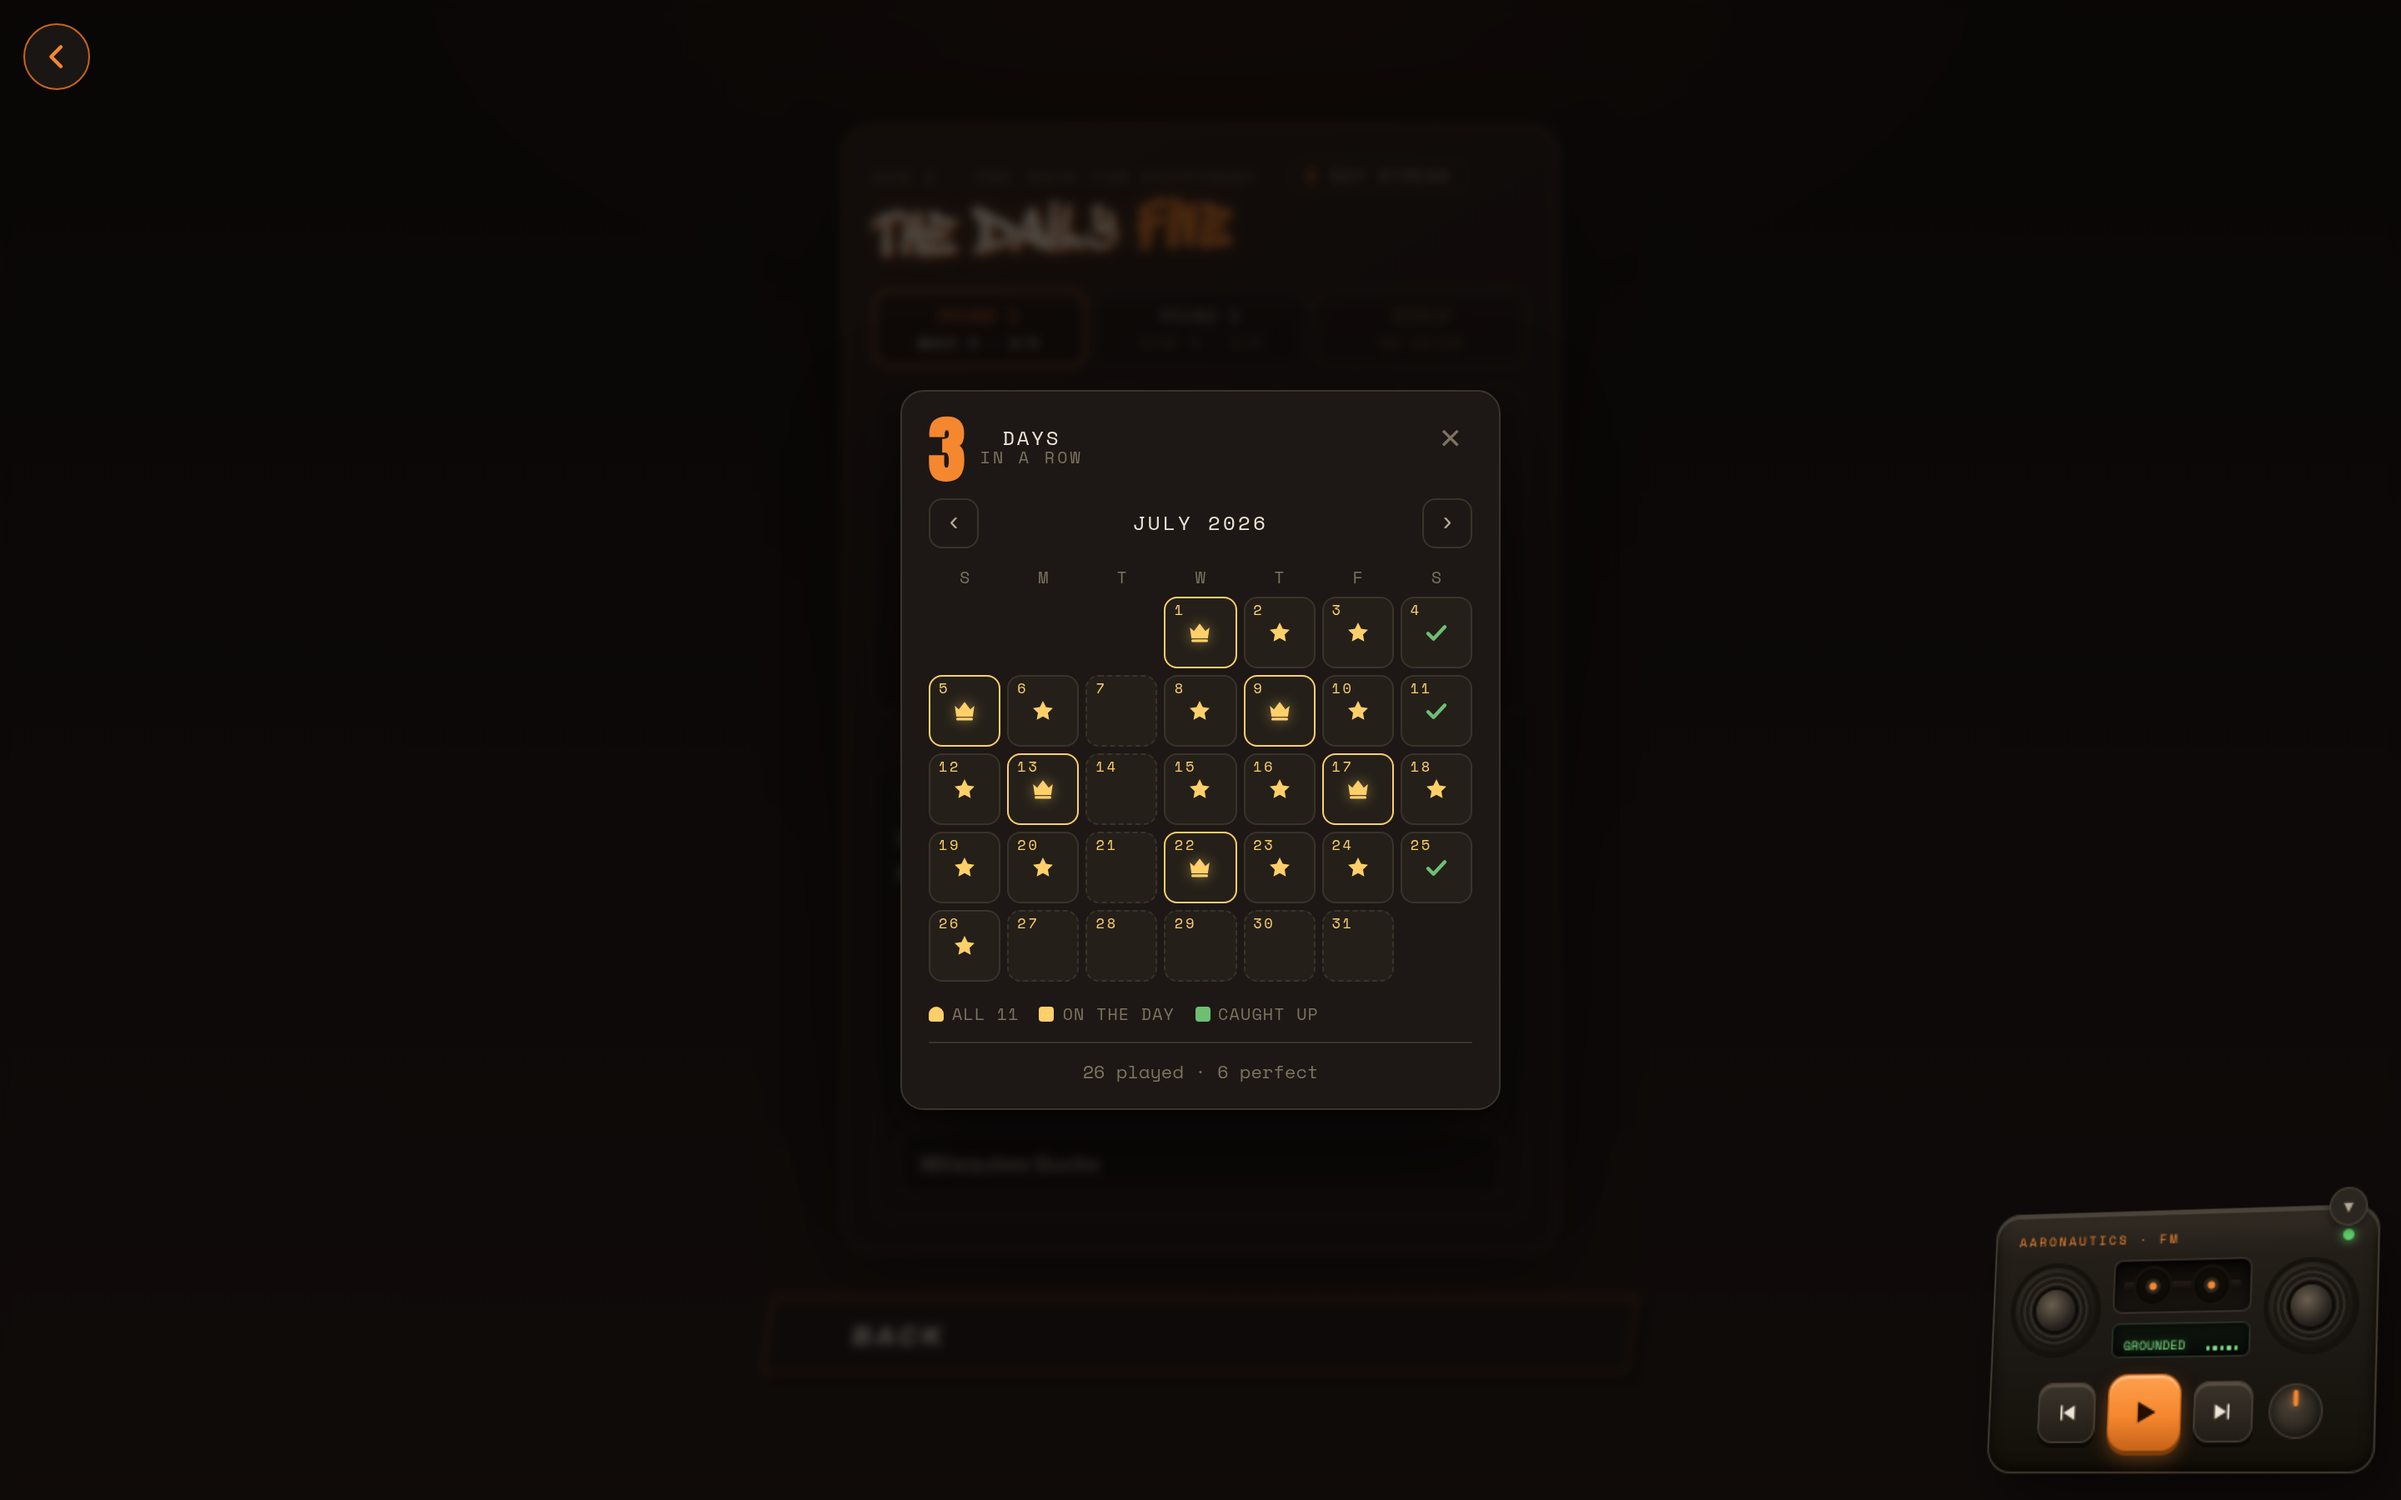
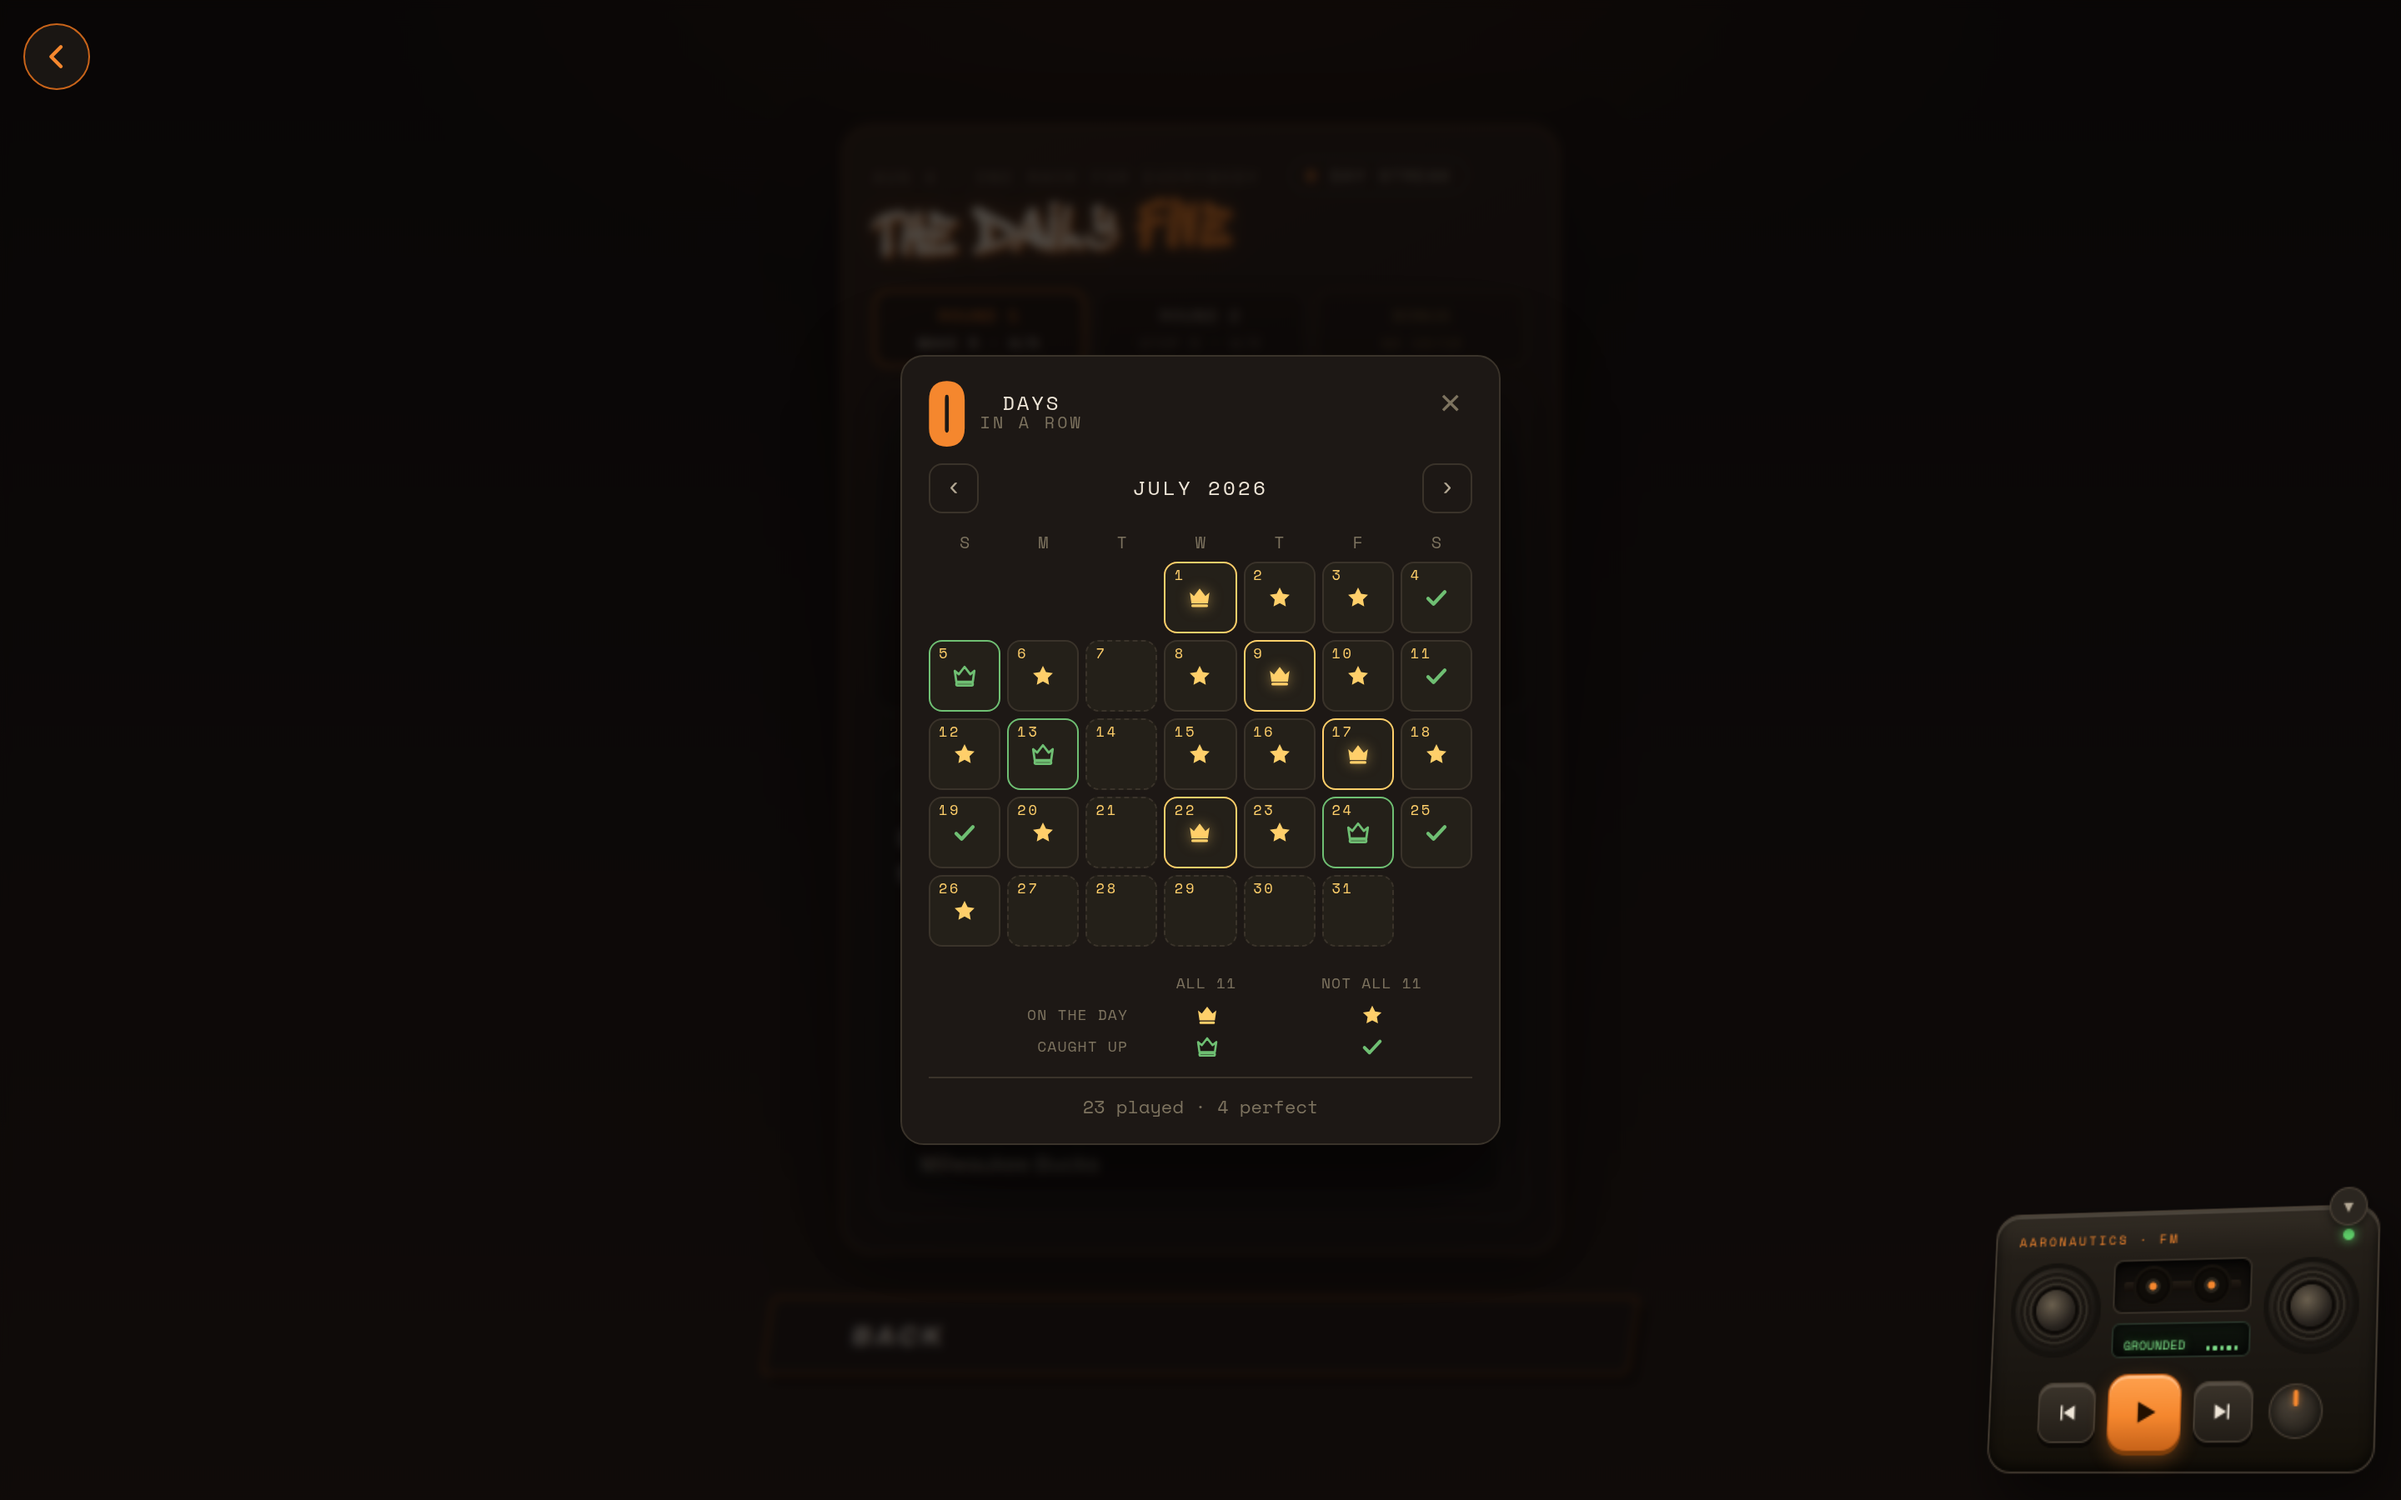
Four marks, not three: a caught-up perfect day is its own thing
Aaron, 08-04: "same day and all 11 has nothing, and resolved another day but all
11 has nothing, and there is no key."

He was right twice. The marks answer TWO questions — did you get all eleven, and
did you do it on the day — which is four cells, and the first cut had three. All
eleven caught up drew the identical gold crown as all eleven on the day, so the
calendar quietly said those were the same achievement. And the key listed "all 11
/ on the day / caught up" as if they were alternatives, which cannot teach a
combination.

                    all eleven          not all eleven
  on the day        gold crown, filled  gold star
  caught up later   green crown, hollow green check

COLOUR SAYS WHEN, SHAPE SAYS WHAT. Gold means you were there on the day, green
means you came back for it; crown means all eleven. Neither channel carries the
whole message on its own, which is the rule this project keeps relearning.

The caught-up crown is the SAME PATH drawn hollow with a heavy 2.2 stroke, not a
second crown — it has to read as the same achievement arriving late. A hairline
outline vanishes at 14px and the cell just reads empty.

The key is now a 2x2 grid that draws itself from _markSvg, so it can never show
a shape the calendar does not use.

Also caught by looking at the screenshot: "4 perfect" with seven crowns on
screen. The total counted only same-day crowns. All eleven is all eleven — the
hollow crown says a day late, not less.
[…]

diff --git a/docs/play/daily.js b/docs/play/daily.js
@@ -349,10 +349,26 @@ function histAdd(res){
      check  played, but caught up later
    Ranked, not exclusive: a made-up day that goes 11/11 still earns the crown,
    because Aaron's rule was "any days where all 11 were completed". */
+/* FOUR STATES, because there are two questions and each has two answers:
+   did you get all eleven, and did you do it on the day?
+
+                       not all eleven        all eleven
+     on the day        gold star             gold crown, filled
+     caught up later   green check           green crown, hollow
+
+   Aaron caught this on 08-04: the first cut collapsed the top-right and
+   bottom-right into one gold crown, so catching up a perfect day looked exactly
+   like nailing it on the day. Two axes, four cells — and the legend has to show
+   all four or the language is only half-taught.
+
+   COLOUR SAYS WHEN, SHAPE SAYS WHAT. Gold means you were there on the day;
+   green means you came back for it. Crown means all eleven; star and check mean
+   you played. That way neither channel has to carry the whole message, which is
+   the rule this project keeps relearning. */
 function markFor(rec){
   if(!rec)return null;
   var swept=rec.s.filter(Boolean).length===5&&rec.t.filter(Boolean).length===5;
-  if(swept&&rec.h>0)return 'crown';
+  if(swept&&rec.h>0)return rec.L?'crownlate':'crown';
   return rec.L?'check':'star';
 }
 
@@ -590,12 +606,27 @@ function mark(kind,size){
     return '<svg class="dvmk st" viewBox="0 0 24 24" width="'+s+'" height="'+s+
       '" aria-hidden="true"><path d="M12 2.4l2.95 5.98 6.6.96-4.775 4.655 1.127 6.573'+
       'L12 17.47l-5.902 3.098 1.127-6.573L2.45 9.34l6.6-.96z" fill="currentColor"/></svg>';
-  /* the crown: three points, a band, and two jewels. Symmetric on purpose —
-     at this size an asymmetric crown just reads as a smudge. */
-  return '<svg class="dvmk cr" viewBox="0 0 24 24" width="'+s+'" height="'+s+
-    '" aria-hidden="true"><path d="M2.6 7.2l3.9 3.3L12 3.4l5.5 7.1 3.9-3.3-1.5 10.4'+
-    'H4.1z" fill="currentColor"/><rect x="4.1" y="18.6" width="15.8" height="2.6" '+
-    'rx="1.1" fill="currentColor"/></svg>';
+  /* the crown: three points and a band. Symmetric on purpose — at this size an
+     asymmetric crown just reads as a smudge.
+
+     TWO CROWNS, ONE OUTLINE. The caught-up crown is the SAME path drawn hollow
+     with a thick stroke instead of a fill, so it is unmistakably the same
+     achievement arriving later rather than a different award. Drawing a second,
+     different crown would have been the easy version and the wrong one.
+     The stroke is deliberately heavy (2.2 on a 24 box): a hairline outline
+     disappears at 14px and the cell just reads empty. */
+  var late=kind==='crownlate';
+  var ink=late?'fill="none" stroke="currentColor" stroke-width="2.2" '+
+               'stroke-linejoin="round"':'fill="currentColor"';
+  return '<svg class="dvmk '+(late?'crl':'cr')+'" viewBox="0 0 24 24" width="'+s+
+    '" height="'+s+'" aria-hidden="true">'+
+    '<path d="M2.6 7.2l3.9 3.3L12 3.4l5.5 7.1 3.9-3.3-1.5 10.4H4.1z" '+ink+'/>'+
+    (late
+      ? '<rect x="4.1" y="18.6" width="15.8" height="2.6" rx="1.1" fill="none" '+
+        'stroke="currentColor" stroke-width="2.2"/>'
+      : '<rect x="4.1" y="18.6" width="15.8" height="2.6" rx="1.1" '+
+        'fill="currentColor"/>')+
+    '</svg>';
 }
 
 var CAL={y:0,m:0};
@@ -617,7 +648,12 @@ function calPaint(){
   var days=new Date(CAL.y,CAL.m+1,0).getDate();
   var n=streakFrom(h,today);
   var played=Object.keys(h).length;
-  var crowns=Object.keys(h).filter(function(k){return markFor(h[k])==='crown'}).length;
+  /* BOTH crowns count as perfect. All eleven is all eleven — the hollow crown
+     says you got there a day late, not that you got less. Counting only the
+     filled one made a caught-up perfect day worth nothing in the total, which
+     the screenshot caught: 23 played, 4 perfect, with seven crowns on screen. */
+  var crowns=Object.keys(h).filter(function(k){
+    var m=markFor(h[k]);return m==='crown'||m==='crownlate';}).length;
 
   var cells='';
   for(var i=0;i<lead;i++)cells+='<div class="dvcd pad"></div>';
@@ -636,6 +672,11 @@ function calPaint(){
   }
 
   el.querySelector('.dvcalgrid').innerHTML=cells;
+  /* the key draws itself from _markSvg, so a shape can never appear in the
+     legend that the calendar does not actually use */
+  var keys=el.querySelectorAll('.dvcalkey td[data-k]');
+  for(var q=0;q<keys.length;q++)
+    keys[q].innerHTML=mark(keys[q].getAttribute('data-k'),14);
   el.querySelector('.dvcalmon').textContent=
     first.toLocaleDateString(undefined,{month:'long',year:'numeric'});
   el.querySelector('.dvstreakn').textContent=n;

diff --git a/docs/play/index.html b/docs/play/index.html
@@ -400,14 +400,21 @@
   .dvcd .dvmk.st{color:var(--legend)}
   .dvcd .dvmk.cr{color:var(--legend);filter:drop-shadow(0 0 4px rgba(255,207,106,.5))}
   .dvcd.crown{border-color:var(--legend)}
-  .dvcalkey{display:flex;gap:12px;flex-wrap:wrap;margin:12px 0 0;
-    font-family:var(--mono);font-size:10px;color:var(--ink-faint);
+  .dvcalkey{margin:12px 0 0;border-collapse:collapse;width:100%;
+    font-family:var(--mono);font-size:9px;color:var(--ink-faint);
     letter-spacing:.06em;text-transform:uppercase}
-  .dvcalkey span{display:flex;align-items:center;gap:5px}
-  .dvcalkey i.k{width:9px;height:9px;border-radius:2px;display:block}
-  .dvcalkey i.k.cr,.dvcalkey i.k.st{background:var(--legend)}
-  .dvcalkey i.k.cr{border-radius:50% 50% 2px 2px}
-  .dvcalkey i.k.ck{background:var(--easy)}
+  .dvcalkey th{font-weight:400;color:var(--ink-faint);padding:3px 4px;
+    text-align:center}
+  .dvcalkey th[scope="row"]{text-align:right;white-space:nowrap;padding-right:8px}
+  .dvcalkey td{text-align:center;padding:2px 4px}
+  .dvcalkey td .dvmk{margin:0 auto}
+  .dvcalkey .dvmk.ck{color:var(--easy)}
+  .dvcalkey .dvmk.st,.dvcalkey .dvmk.cr{color:var(--legend)}
+  .dvcalkey .dvmk.crl{color:var(--easy)}
+  /* the caught-up crown: green like the check (colour says WHEN) and hollow,
+     so it reads as the same crown arriving late rather than a second award */
+  .dvcd .dvmk.crl{color:var(--easy)}
+  .dvcd.crownlate{border-color:var(--easy)}
   .dvcalfoot{margin-top:9px;padding-top:9px;border-top:1px solid var(--line);
     font-family:var(--mono);font-size:11px;color:var(--ink-faint)}
   @media (max-width:420px){
@@ -2488,11 +2495,19 @@
         <span>S</span><span>M</span><span>T</span><span>W</span><span>T</span><span>F</span><span>S</span>
       </div>
       <div class="dvcalgrid"></div>
-      <div class="dvcalkey">
-        <span><i class="k cr"></i> all 11</span>
-        <span><i class="k st"></i> on the day</span>
-        <span><i class="k ck"></i> caught up</span>
-      </div>
+      <!-- FOUR cells, not three. The old key listed "all 11 / on the day /
+           caught up" as if they were alternatives, when they are two separate
+           questions — so it never taught what a caught-up perfect day looks
+           like. A grid says it in the shape of the thing. Marks are injected
+           from the same _markSvg the calendar uses, so the key can never show
+           a shape the calendar does not draw. -->
+      <table class="dvcalkey">
+        <tr><td></td><th scope="col">all 11</th><th scope="col">not all 11</th></tr>
+        <tr><th scope="row">on the day</th>
+            <td data-k="crown"></td><td data-k="star"></td></tr>
+        <tr><th scope="row">caught up</th>
+            <td data-k="crownlate"></td><td data-k="check"></td></tr>
+      </table>
       <div class="dvcalfoot">—</div>
     </div>
   </div>
